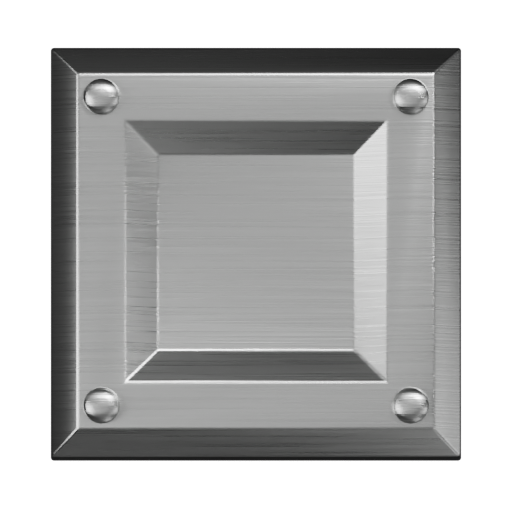
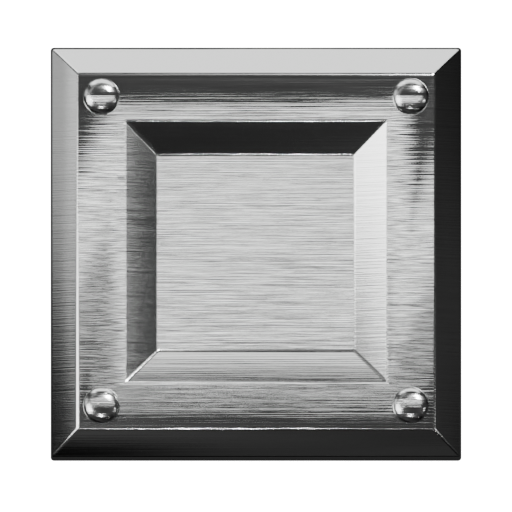
Light the locked plate in a strip box
Two faults, one cause: what the metal was standing in.

It was lit from BELOW - top chamfer #797978 against #8b8c8b at the
bottom, while every item on the board is lit from above. The lock
camera carries an extra 180 degrees about z so the key lamp reads
from the top of the frame, and `_board_environment` turns the HDRI
by the camera's whole rotation, which took the room round with it.
The room keeps the tilt now and not the spin.

And it did not read as metal because the reflections were an even
wash, which is what a matte painted surface has. A strip box instead:
a panel stood off the top of frame, which is the only thing a
45-degree chamfer can see (it turns this camera's ray through ninety
degrees, so chamfers mirror the horizon, never anything overhead -
that is why they kept going black), and two strips overhead landing
as bars across the floor. Roughness back to 0.16 so the lobe is tight
enough for those to stay separate; at 0.30 every surface saw every
source and it flattened out again.

diff --git a/src/game/objects/itemSprites.ts b/src/game/objects/itemSprites.ts
@@ -138,7 +138,7 @@ export function itemSpriteKey(typeId: string, tier: number): string {
  * A version in the query string makes the URL new, so every client refetches
  * once and then caches again normally.
  */
-export const ITEM_ART_VERSION = 60;
+export const ITEM_ART_VERSION = 61;
 
 /** Where the renderer writes it, relative to `public/`. */
 export function itemSpritePath(typeId: string, tier: number): string {

diff --git a/tools/blender/render_items.py b/tools/blender/render_items.py
@@ -3661,8 +3661,8 @@ LOCK_LIGHT_SCALE = 0.30
 #
 # A metal is nothing but its reflections, so this is not a background
 # setting - it is most of the plate's appearance.
-LOCK_HDRI_STRENGTH = 0.17
-LOCK_ROUGHNESS = 0.30
+LOCK_HDRI_STRENGTH = 0.10
+LOCK_ROUGHNESS = 0.16
 LOCK_METALLIC = 1.0
 # The softbox directly over the plate: its size in world units, how
 # far above it sits, and how hard it burns.
@@ -3675,9 +3675,36 @@ LOCK_METALLIC = 1.0
 # source overhead is what a photographer puts there for the same
 # reason, and a square one because the plate is square: it mirrors as
 # a sheen the shape of the piece rather than a disc floating on it.
-LOCK_SOFTBOX_SIZE = 1.10
-LOCK_SOFTBOX_Z = 1.40
-LOCK_SOFTBOX_POWER = 2.0
+# A STRIP-LIT BOX, not one soft source.
+#
+# What a metal shows is its surroundings, so an even wash of light
+# gives evenly lit reflections - which is what a matte painted
+# surface looks like, and what this kept coming back as. Product
+# photographers shoot flat metal in front of long STRIP softboxes for
+# exactly this reason: a strip mirrors as a hard-edged bright bar,
+# and bars against dark are what the eye reads as polish.
+#
+# Three sources, each aimed at a different part of the piece:
+#
+#  - the PANEL stands off the top of the frame facing the plate. A
+#    45-degree chamfer turns a ray from this camera through ninety
+#    degrees, so chamfers do not mirror anything overhead at all -
+#    they mirror the HORIZON, which is why they kept going black. The
+#    panel is something at the horizon for the top one to find, and
+#    the bottom one faces the other way and stays dark. That pair is
+#    the whole lit-from-above read.
+#  - the STRIPS hang over the plate and land as bars across the flat
+#    floor and land, which is the 56% of the area that was one dead
+#    value.
+#  - the studio KEY stays for the bolt heads.
+LOCK_PANEL_SIZE = (1.00, 0.50)
+LOCK_PANEL_AT = (0.0, -0.60, 0.12)
+LOCK_PANEL_POWER = 4.0
+LOCK_STRIPS = (
+    # (size x, size y, position, power)
+    ((0.90, 0.035), (0.0, -0.050, 0.45), 0.55),
+    ((0.90, 0.020), (0.0, 0.045, 0.55), 0.22),
+)
 LOCK_FRAME_CELLS = 1.25
 LOCK_PX = 512
 
@@ -3878,20 +3905,31 @@ def render_locked_plate():
         lamp = bpy.data.objects.get(name)
         if lamp is not None:
             lamp.data.energy *= LOCK_LIGHT_SCALE
-    # AND A SOFTBOX OVER IT - see LOCK_SOFTBOX_POWER.
-    box_data = (bpy.data.lights.get("LockSoftbox")
-                or bpy.data.lights.new("LockSoftbox", type='AREA'))
-    box_data.type = 'AREA'
-    box_data.shape = 'SQUARE'
-    box_data.size = LOCK_SOFTBOX_SIZE
-    box_data.energy = LOCK_SOFTBOX_POWER
-    box = bpy.data.objects.get("LockSoftbox")
-    if box is None:
-        box = bpy.data.objects.new("LockSoftbox", box_data)
-        bpy.context.collection.objects.link(box)
-    box.data = box_data
-    box.location = (0.0, 0.0, LOCK_SOFTBOX_Z)
-    box.rotation_euler = (0.0, 0.0, 0.0)
+    # THE BOX AROUND IT - see LOCK_PANEL_SIZE.
+    def rect(name, size, loc, power, rotation):
+        data = (bpy.data.lights.get(name)
+                or bpy.data.lights.new(name, type='AREA'))
+        data.type = 'AREA'
+        data.shape = 'RECTANGLE'
+        data.size, data.size_y = size
+        data.energy = power
+        ob = bpy.data.objects.get(name)
+        if ob is None:
+            ob = bpy.data.objects.new(name, data)
+            bpy.context.collection.objects.link(ob)
+        ob.data = data
+        ob.location = loc
+        ob.rotation_euler = rotation
+        return ob
+
+    _lock_rig = []
+    # Stood on its edge facing the plate. An area lamp points down its
+    # own -z, so a quarter turn about x aims it at +y.
+    _lock_rig.append(rect("LockPanel", LOCK_PANEL_SIZE, LOCK_PANEL_AT,
+                          LOCK_PANEL_POWER, (math.radians(90), 0.0, 0.0)))
+    for index, (size, loc, power) in enumerate(LOCK_STRIPS):
+        _lock_rig.append(rect("LockStrip%d" % index, size, loc, power,
+                              (0.0, 0.0, 0.0)))
 
     # A ROOM FOR THE STEEL TO MIRROR, replacing the studio's near-black
     # sky - and the reason Metallic 1.0 is usable here at all.
@@ -3911,6 +3949,20 @@ def render_locked_plate():
     for node in world.node_tree.nodes:
         if node.type == 'BACKGROUND':
             node.inputs["Strength"].default_value = LOCK_HDRI_STRENGTH
+        # THE ROOM DOES NOT GET SPUN WITH THE CAMERA.
+        #
+        # `_board_environment` turns the environment by the camera's
+        # whole rotation, which is right for the board - it reproduces
+        # what the viewport does. This camera carries an extra 180
+        # degrees about z, put there so the key lamp reads from the
+        # top of the frame, and that took the room round with it: the
+        # HDRI's bright side landed at the BOTTOM, and it beat the
+        # lamp. Measured, the plate's top chamfer came back #797978
+        # against #8b8c8b at the bottom - lit from below, while every
+        # item standing on the board is lit from above.
+        if node.type == 'MAPPING':
+            node.inputs["Rotation"].default_value = (
+                math.radians(BOARD_TILT_DEG), 0.0, 0.0)
     configure_render()
     sc = bpy.context.scene
     sc.render.resolution_x = sc.render.resolution_y = LOCK_PX
@@ -3920,14 +3972,13 @@ def render_locked_plate():
     os.makedirs(out_dir, exist_ok=True)
     sc.render.filepath = os.path.join(out_dir, "locked.png")
     bpy.ops.render.render(write_still=True)
-    # THE SOFTBOX GOES AWAY AGAIN. `build_lights` only knows about the
-    # two studio lamps, so a box left in the scene would quietly light
-    # every item rendered after this one in the same session - the
-    # kind of live-scene state that has already cost this project a
-    # day of blaming materials.
-    box = bpy.data.objects.get("LockSoftbox")
-    if box is not None:
-        bpy.data.objects.remove(box, do_unlink=True)
+    # THE RIG GOES AWAY AGAIN. `build_lights` only knows about the two
+    # studio lamps, so anything left behind would quietly light every
+    # item rendered after this one in the same session - the kind of
+    # live-scene state that has already cost this project a day of
+    # blaming materials.
+    for lamp in _lock_rig:
+        bpy.data.objects.remove(lamp, do_unlink=True)
     print("rendered locked plate", sc.render.filepath)
     return sc.render.filepath
 
